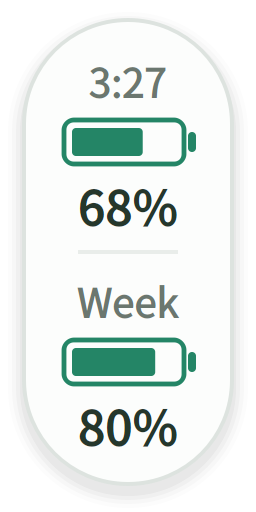
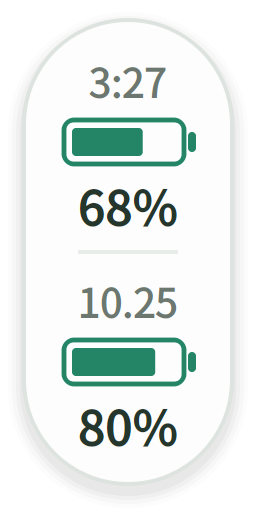
Show weekly quota reset date

Changed region(s): [[0.2812, 0.5312, 0.7188, 0.625]]

diff --git a/app.py b/app.py
@@ -54,6 +54,18 @@ def reset_countdown(resets_at, now=None):
     return f"{hours}:{minutes:02d}"
 
 
+def reset_date(resets_at):
+    if isinstance(resets_at, bool) or not isinstance(resets_at, (int, float)):
+        return "--.--"
+    if not math.isfinite(resets_at) or resets_at <= 0:
+        return "--.--"
+    try:
+        reset = QtCore.QDateTime.fromSecsSinceEpoch(int(resets_at))
+    except (OverflowError, ValueError):
+        return "--.--"
+    return reset.toString("MM.dd") if reset.isValid() else "--.--"
+
+
 class QuotaFloat(QtWidgets.QWidget):
     def __init__(self, demo=False):
         super().__init__()
@@ -81,7 +93,7 @@ class QuotaFloat(QtWidgets.QWidget):
         self.load_position()
         if demo:
             self.snapshot = {"fetched_at": time.time(), "five_hour": {"remaining": 68, "resets_at": time.time() + 3 * 3600 + 27 * 60},
-                             "weekly": {"remaining": 80, "resets_at": None}}
+                             "weekly": {"remaining": 80, "resets_at": time.time() + 5 * 24 * 3600}}
             self.update_tooltip()
         else:
             self.timer.start(REFRESH_MS)
@@ -199,8 +211,9 @@ class QuotaFloat(QtWidgets.QWidget):
         painter.setPen(QtGui.QPen(QtGui.QColor("#44494c" if self.dark else "#e9edea"), 1))
         painter.drawLine(QtCore.QPointF(20, 63), QtCore.QPointF(44, 63))
         first = (self.snapshot or {}).get("five_hour") or {}
+        weekly = (self.snapshot or {}).get("weekly") or {}
         self.paint_quota(painter, "five_hour", reset_countdown(first.get("resets_at")), 13)
-        self.paint_quota(painter, "weekly", "Week", 68)
+        self.paint_quota(painter, "weekly", reset_date(weekly.get("resets_at")), 68)
         painter.end()
 
     def paint_quota(self, painter, key, label, top):

diff --git a/README.md b/README.md
@@ -2,18 +2,18 @@
 
 一个轻量的 Linux 桌面悬浮窗，让 Codex 的五小时和周额度像电池电量一样直接可见。
 
-<img src="preview-widget.png" width="128" alt="悬浮窗示例：距重置 3:27，五小时剩余 68%，Week 剩余 80%">
+<img src="preview-widget.png" width="128" alt="悬浮窗示例：距重置 3:27，五小时剩余 68%，每周重置日期及剩余 80%">
 
 *预览使用示例数据，不代表真实账户余量。此项目由社区开发，与 OpenAI 无隶属关系。*
 
 ## 功能
 
-- 直接显示五小时和 Week 额度的**剩余百分比**。
-- 第一节电池上方显示距重置的 `h:mm` 倒计时；倒计时和额度每 60 秒更新。
+- 直接显示五小时和每周额度的**剩余百分比**。
+- 第一节电池上方显示距重置的 `h:mm` 倒计时，第二节上方显示每周额度重置的本地日期，如 `10.25`；日期、倒计时和额度每 60 秒更新。
 - 剩余量 **>50% 绿色、20%～50% 黄色、<20% 红色**。
 - 置顶、拖动、记忆位置，支持深色外观。
 - 右键可以立即刷新、切换外观或退出；重复启动只显示一个悬浮窗。
-- 缺失额度显示 `—`，未知重置时间显示 `--:--`；刷新失败时，上次余量变灰。
+- 缺失额度显示 `—`，未知重置时间显示 `--:--`，未知每周重置日期显示 `--.--`；刷新失败时，上次余量变灰。
 
 ## 系统要求
 
